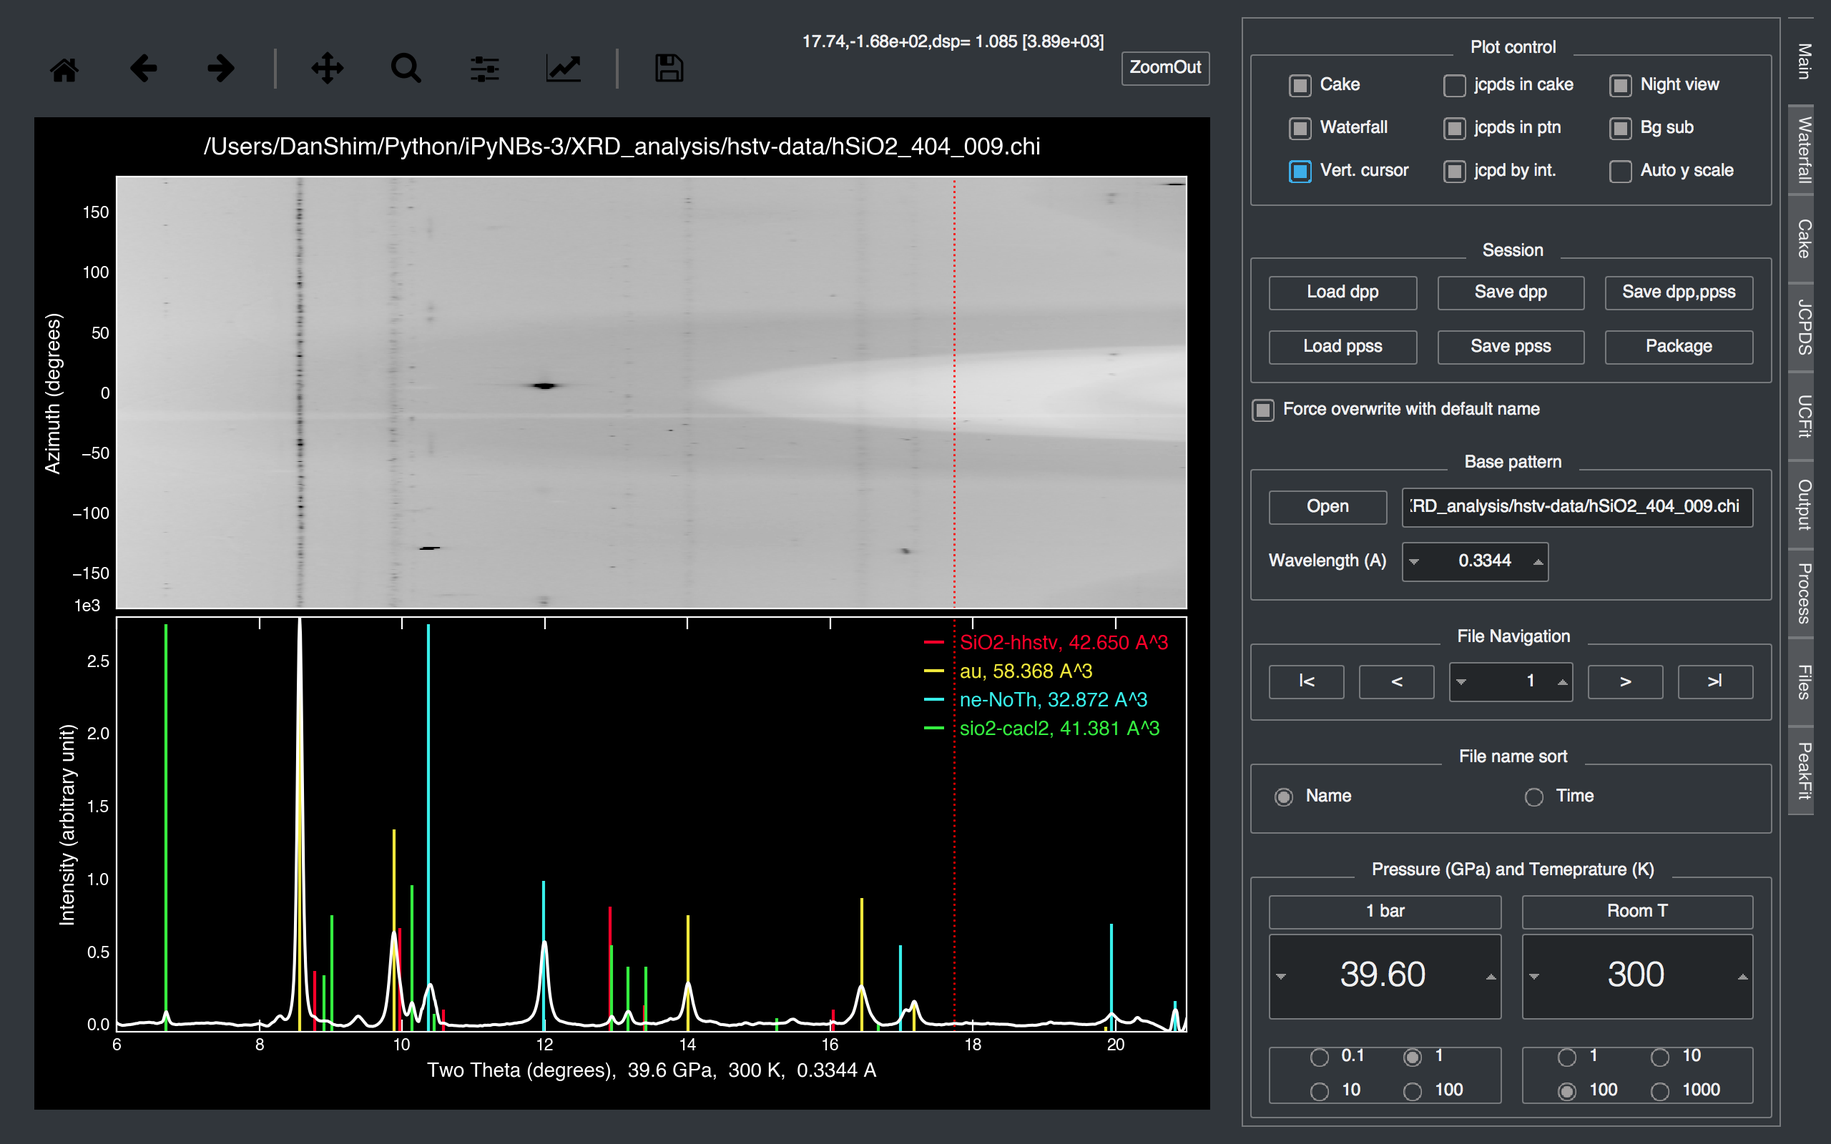
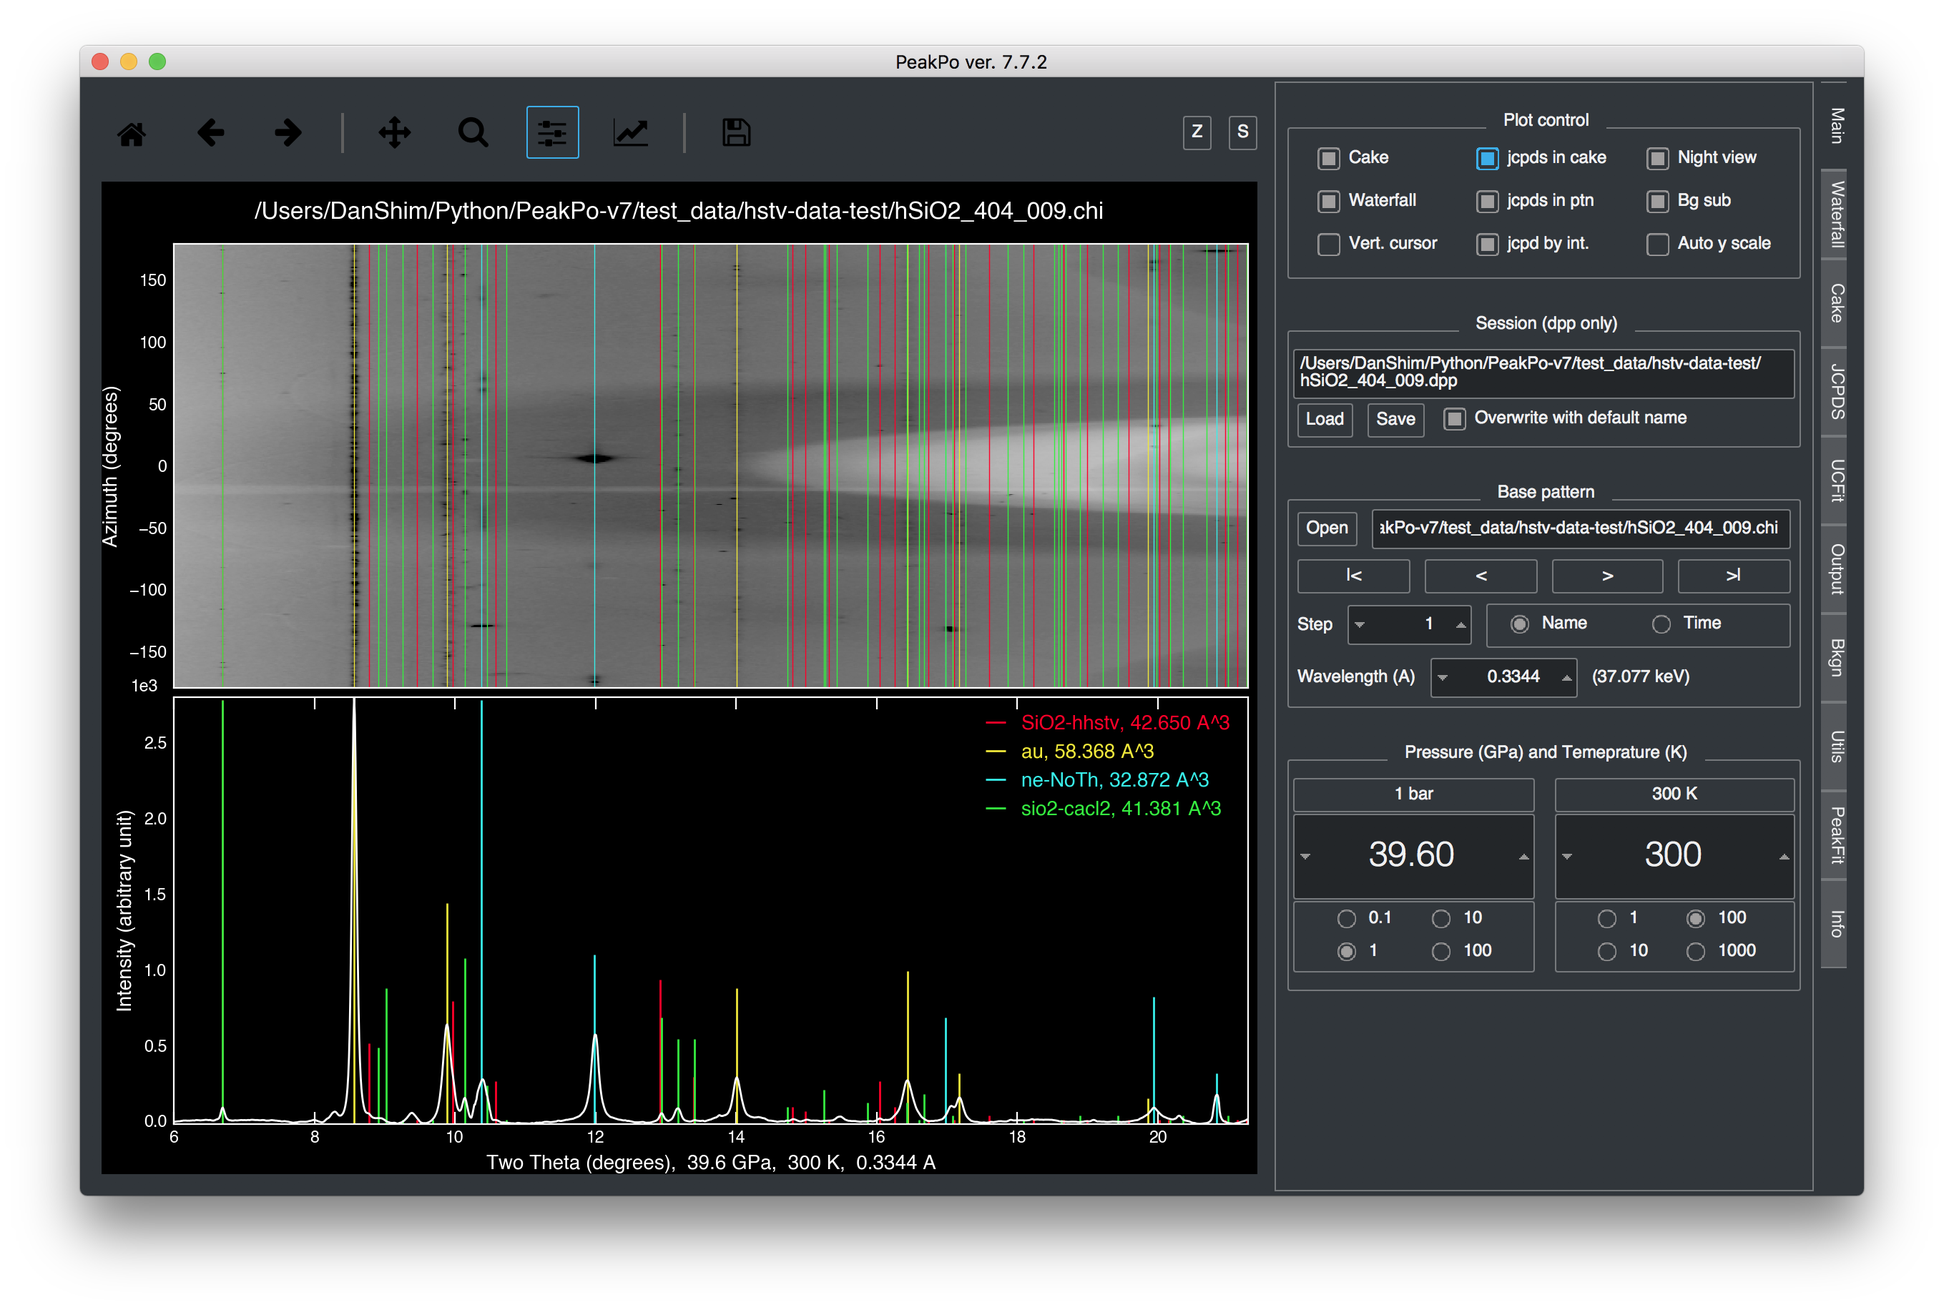
updated screenshots

diff --git a/peakpo/view/qtd.py b/peakpo/view/qtd.py
@@ -1673,18 +1673,6 @@ class Ui_MainWindow(object):
         self.groupBox_10.setObjectName("groupBox_10")
         self.gridLayout_6 = QtWidgets.QGridLayout(self.groupBox_10)
         self.gridLayout_6.setObjectName("gridLayout_6")
-        self.pushButton_DelTempCHI = QtWidgets.QPushButton(self.groupBox_10)
-        self.pushButton_DelTempCHI.setObjectName("pushButton_DelTempCHI")
-        self.gridLayout_6.addWidget(self.pushButton_DelTempCHI, 0, 0, 1, 1)
-        self.checkBox_UseTempBGSub = QtWidgets.QCheckBox(self.groupBox_10)
-        sizePolicy = QtWidgets.QSizePolicy(QtWidgets.QSizePolicy.Fixed, QtWidgets.QSizePolicy.Fixed)
-        sizePolicy.setHorizontalStretch(0)
-        sizePolicy.setVerticalStretch(0)
-        sizePolicy.setHeightForWidth(self.checkBox_UseTempBGSub.sizePolicy().hasHeightForWidth())
-        self.checkBox_UseTempBGSub.setSizePolicy(sizePolicy)
-        self.checkBox_UseTempBGSub.setChecked(True)
-        self.checkBox_UseTempBGSub.setObjectName("checkBox_UseTempBGSub")
-        self.gridLayout_6.addWidget(self.checkBox_UseTempBGSub, 0, 1, 1, 1)
         self.pushButton_DelTempCake = QtWidgets.QPushButton(self.groupBox_10)
         self.pushButton_DelTempCake.setObjectName("pushButton_DelTempCake")
         self.gridLayout_6.addWidget(self.pushButton_DelTempCake, 1, 0, 1, 1)
@@ -1697,6 +1685,18 @@ class Ui_MainWindow(object):
         self.checkBox_UseTempCake.setChecked(True)
         self.checkBox_UseTempCake.setObjectName("checkBox_UseTempCake")
         self.gridLayout_6.addWidget(self.checkBox_UseTempCake, 1, 1, 1, 1)
+        self.pushButton_DelTempCHI = QtWidgets.QPushButton(self.groupBox_10)
+        self.pushButton_DelTempCHI.setObjectName("pushButton_DelTempCHI")
+        self.gridLayout_6.addWidget(self.pushButton_DelTempCHI, 0, 0, 1, 1)
+        self.checkBox_UseTempBGSub = QtWidgets.QCheckBox(self.groupBox_10)
+        sizePolicy = QtWidgets.QSizePolicy(QtWidgets.QSizePolicy.Fixed, QtWidgets.QSizePolicy.Fixed)
+        sizePolicy.setHorizontalStretch(0)
+        sizePolicy.setVerticalStretch(0)
+        sizePolicy.setHeightForWidth(self.checkBox_UseTempBGSub.sizePolicy().hasHeightForWidth())
+        self.checkBox_UseTempBGSub.setSizePolicy(sizePolicy)
+        self.checkBox_UseTempBGSub.setChecked(True)
+        self.checkBox_UseTempBGSub.setObjectName("checkBox_UseTempBGSub")
+        self.gridLayout_6.addWidget(self.checkBox_UseTempBGSub, 0, 1, 1, 1)
         self.verticalLayout_7.addWidget(self.groupBox_10)
         self.groupBox_21 = QtWidgets.QGroupBox(self.tab_Process)
         self.groupBox_21.setFlat(True)
@@ -1709,13 +1709,7 @@ class Ui_MainWindow(object):
         self.pushButton_fromPkFt = QtWidgets.QPushButton(self.groupBox_21)
         self.pushButton_fromPkFt.setObjectName("pushButton_fromPkFt")
         self.horizontalLayout.addWidget(self.pushButton_fromPkFt)
-        self.verticalLayout_7.addWidget(self.groupBox_21)
-        self.groupBox_7 = QtWidgets.QGroupBox(self.tab_Process)
-        self.groupBox_7.setFlat(True)
-        self.groupBox_7.setObjectName("groupBox_7")
-        self.verticalLayout_6 = QtWidgets.QVBoxLayout(self.groupBox_7)
-        self.verticalLayout_6.setObjectName("verticalLayout_6")
-        self.pushButton_SaveBgSubCHI = QtWidgets.QPushButton(self.groupBox_7)
+        self.pushButton_SaveBgSubCHI = QtWidgets.QPushButton(self.groupBox_21)
         sizePolicy = QtWidgets.QSizePolicy(
             QtWidgets.QSizePolicy.Preferred, QtWidgets.QSizePolicy.Fixed)
         sizePolicy.setHorizontalStretch(0)
@@ -1723,22 +1717,31 @@ class Ui_MainWindow(object):
         sizePolicy.setHeightForWidth(self.pushButton_SaveBgSubCHI.sizePolicy().hasHeightForWidth())
         self.pushButton_SaveBgSubCHI.setSizePolicy(sizePolicy)
         self.pushButton_SaveBgSubCHI.setObjectName("pushButton_SaveBgSubCHI")
-        self.verticalLayout_6.addWidget(self.pushButton_SaveBgSubCHI)
-        self.verticalLayout_7.addWidget(self.groupBox_7)
+        self.horizontalLayout.addWidget(self.pushButton_SaveBgSubCHI)
+        self.verticalLayout_7.addWidget(self.groupBox_21)
         self.groupBox_12 = QtWidgets.QGroupBox(self.tab_Process)
         self.groupBox_12.setFlat(True)
         self.groupBox_12.setObjectName("groupBox_12")
         self.gridLayout = QtWidgets.QGridLayout(self.groupBox_12)
         self.gridLayout.setObjectName("gridLayout")
         self.pushButton_LoadPPSS = QtWidgets.QPushButton(self.groupBox_12)
+        sizePolicy = QtWidgets.QSizePolicy(
+            QtWidgets.QSizePolicy.Minimum, QtWidgets.QSizePolicy.Fixed)
+        sizePolicy.setHorizontalStretch(0)
+        sizePolicy.setVerticalStretch(0)
+        sizePolicy.setHeightForWidth(self.pushButton_LoadPPSS.sizePolicy().hasHeightForWidth())
+        self.pushButton_LoadPPSS.setSizePolicy(sizePolicy)
         self.pushButton_LoadPPSS.setObjectName("pushButton_LoadPPSS")
         self.gridLayout.addWidget(self.pushButton_LoadPPSS, 0, 0, 1, 1)
         self.pushButton_SavePPSS = QtWidgets.QPushButton(self.groupBox_12)
+        sizePolicy = QtWidgets.QSizePolicy(
+            QtWidgets.QSizePolicy.Minimum, QtWidgets.QSizePolicy.Fixed)
+        sizePolicy.setHorizontalStretch(0)
+        sizePolicy.setVerticalStretch(0)
+        sizePolicy.setHeightForWidth(self.pushButton_SavePPSS.sizePolicy().hasHeightForWidth())
+        self.pushButton_SavePPSS.setSizePolicy(sizePolicy)
         self.pushButton_SavePPSS.setObjectName("pushButton_SavePPSS")
         self.gridLayout.addWidget(self.pushButton_SavePPSS, 0, 1, 1, 1)
-        self.pushButton_SaveDPPandPPSS = QtWidgets.QPushButton(self.groupBox_12)
-        self.pushButton_SaveDPPandPPSS.setObjectName("pushButton_SaveDPPandPPSS")
-        self.gridLayout.addWidget(self.pushButton_SaveDPPandPPSS, 1, 0, 1, 1)
         self.pushButton_ZipSession = QtWidgets.QPushButton(self.groupBox_12)
         sizePolicy = QtWidgets.QSizePolicy(
             QtWidgets.QSizePolicy.Minimum, QtWidgets.QSizePolicy.Fixed)
@@ -1747,57 +1750,84 @@ class Ui_MainWindow(object):
         sizePolicy.setHeightForWidth(self.pushButton_ZipSession.sizePolicy().hasHeightForWidth())
         self.pushButton_ZipSession.setSizePolicy(sizePolicy)
         self.pushButton_ZipSession.setObjectName("pushButton_ZipSession")
-        self.gridLayout.addWidget(self.pushButton_ZipSession, 1, 1, 1, 1)
+        self.gridLayout.addWidget(self.pushButton_ZipSession, 1, 0, 1, 1)
+        self.pushButton_SaveDPPandPPSS = QtWidgets.QPushButton(self.groupBox_12)
+        sizePolicy = QtWidgets.QSizePolicy(
+            QtWidgets.QSizePolicy.Minimum, QtWidgets.QSizePolicy.Fixed)
+        sizePolicy.setHorizontalStretch(0)
+        sizePolicy.setVerticalStretch(0)
+        sizePolicy.setHeightForWidth(
+            self.pushButton_SaveDPPandPPSS.sizePolicy().hasHeightForWidth())
+        self.pushButton_SaveDPPandPPSS.setSizePolicy(sizePolicy)
+        self.pushButton_SaveDPPandPPSS.setObjectName("pushButton_SaveDPPandPPSS")
+        self.gridLayout.addWidget(self.pushButton_SaveDPPandPPSS, 1, 1, 1, 1)
         self.verticalLayout_7.addWidget(self.groupBox_12)
         self.groupBox_16 = QtWidgets.QGroupBox(self.tab_Process)
         self.groupBox_16.setFlat(True)
         self.groupBox_16.setObjectName("groupBox_16")
         self.gridLayout_14 = QtWidgets.QGridLayout(self.groupBox_16)
+        self.gridLayout_14.setContentsMargins(-1, 12, -1, 12)
         self.gridLayout_14.setObjectName("gridLayout_14")
-        self.frame_7 = QtWidgets.QFrame(self.groupBox_16)
-        self.frame_7.setFrameShape(QtWidgets.QFrame.NoFrame)
-        self.frame_7.setFrameShadow(QtWidgets.QFrame.Raised)
-        self.frame_7.setLineWidth(0)
-        self.frame_7.setObjectName("frame_7")
-        self.gridLayout_15 = QtWidgets.QGridLayout(self.frame_7)
+        self.groupBox_7 = QtWidgets.QGroupBox(self.groupBox_16)
+        self.groupBox_7.setFlat(True)
+        self.groupBox_7.setObjectName("groupBox_7")
+        self.gridLayout_15 = QtWidgets.QGridLayout(self.groupBox_7)
         self.gridLayout_15.setObjectName("gridLayout_15")
-        self.comboBox_BkgnLineThickness = QtWidgets.QComboBox(self.frame_7)
+        self.label_22 = QtWidgets.QLabel(self.groupBox_7)
+        self.label_22.setObjectName("label_22")
+        self.gridLayout_15.addWidget(self.label_22, 0, 2, 1, 1)
+        self.comboBox_BkgnLineThickness = QtWidgets.QComboBox(self.groupBox_7)
+        self.comboBox_BkgnLineThickness.setLayoutDirection(QtCore.Qt.RightToLeft)
         self.comboBox_BkgnLineThickness.setObjectName("comboBox_BkgnLineThickness")
         self.gridLayout_15.addWidget(self.comboBox_BkgnLineThickness, 1, 1, 1, 1)
-        self.label_25 = QtWidgets.QLabel(self.frame_7)
+        self.label_25 = QtWidgets.QLabel(self.groupBox_7)
         self.label_25.setObjectName("label_25")
         self.gridLayout_15.addWidget(self.label_25, 2, 0, 1, 1)
-        self.label_22 = QtWidgets.QLabel(self.frame_7)
-        self.label_22.setObjectName("label_22")
-        self.gridLayout_15.addWidget(self.label_22, 3, 0, 1, 1)
-        self.comboBox_PtnJCPDSBarThickness = QtWidgets.QComboBox(self.frame_7)
-        self.comboBox_PtnJCPDSBarThickness.setMaxCount(10)
-        self.comboBox_PtnJCPDSBarThickness.setObjectName("comboBox_PtnJCPDSBarThickness")
-        self.gridLayout_15.addWidget(self.comboBox_PtnJCPDSBarThickness, 3, 1, 1, 1)
-        self.label_17 = QtWidgets.QLabel(self.frame_7)
+        self.label_17 = QtWidgets.QLabel(self.groupBox_7)
         self.label_17.setObjectName("label_17")
         self.gridLayout_15.addWidget(self.label_17, 0, 0, 1, 1)
-        self.comboBox_BasePtnLineThickness = QtWidgets.QComboBox(self.frame_7)
+        self.comboBox_BasePtnLineThickness = QtWidgets.QComboBox(self.groupBox_7)
+        self.comboBox_BasePtnLineThickness.setLayoutDirection(QtCore.Qt.RightToLeft)
         self.comboBox_BasePtnLineThickness.setMaxCount(10)
         self.comboBox_BasePtnLineThickness.setObjectName("comboBox_BasePtnLineThickness")
         self.gridLayout_15.addWidget(self.comboBox_BasePtnLineThickness, 0, 1, 1, 1)
-        self.label_23 = QtWidgets.QLabel(self.frame_7)
-        self.label_23.setObjectName("label_23")
-        self.gridLayout_15.addWidget(self.label_23, 4, 0, 1, 1)
-        self.comboBox_CakeJCPDSBarThickness = QtWidgets.QComboBox(self.frame_7)
-        self.comboBox_CakeJCPDSBarThickness.setMaxCount(10)
-        self.comboBox_CakeJCPDSBarThickness.setObjectName("comboBox_CakeJCPDSBarThickness")
-        self.gridLayout_15.addWidget(self.comboBox_CakeJCPDSBarThickness, 4, 1, 1, 1)
-        self.comboBox_WaterfallLineThickness = QtWidgets.QComboBox(self.frame_7)
+        self.comboBox_WaterfallLineThickness = QtWidgets.QComboBox(self.groupBox_7)
+        self.comboBox_WaterfallLineThickness.setLayoutDirection(QtCore.Qt.RightToLeft)
         self.comboBox_WaterfallLineThickness.setObjectName("comboBox_WaterfallLineThickness")
         self.gridLayout_15.addWidget(self.comboBox_WaterfallLineThickness, 2, 1, 1, 1)
-        self.label_24 = QtWidgets.QLabel(self.frame_7)
+        self.label_24 = QtWidgets.QLabel(self.groupBox_7)
         self.label_24.setObjectName("label_24")
         self.gridLayout_15.addWidget(self.label_24, 1, 0, 1, 1)
-        self.gridLayout_14.addWidget(self.frame_7, 0, 0, 1, 1)
+        self.comboBox_PtnJCPDSBarThickness = QtWidgets.QComboBox(self.groupBox_7)
+        self.comboBox_PtnJCPDSBarThickness.setLayoutDirection(QtCore.Qt.RightToLeft)
+        self.comboBox_PtnJCPDSBarThickness.setMaxCount(10)
+        self.comboBox_PtnJCPDSBarThickness.setObjectName("comboBox_PtnJCPDSBarThickness")
+        self.gridLayout_15.addWidget(self.comboBox_PtnJCPDSBarThickness, 0, 3, 1, 1)
+        self.label_23 = QtWidgets.QLabel(self.groupBox_7)
+        self.label_23.setObjectName("label_23")
+        self.gridLayout_15.addWidget(self.label_23, 1, 2, 1, 1)
+        self.comboBox_CakeJCPDSBarThickness = QtWidgets.QComboBox(self.groupBox_7)
+        self.comboBox_CakeJCPDSBarThickness.setLayoutDirection(QtCore.Qt.RightToLeft)
+        self.comboBox_CakeJCPDSBarThickness.setMaxCount(10)
+        self.comboBox_CakeJCPDSBarThickness.setObjectName("comboBox_CakeJCPDSBarThickness")
+        self.gridLayout_15.addWidget(self.comboBox_CakeJCPDSBarThickness, 1, 3, 1, 1)
+        self.label_26 = QtWidgets.QLabel(self.groupBox_7)
+        sizePolicy = QtWidgets.QSizePolicy(
+            QtWidgets.QSizePolicy.Fixed, QtWidgets.QSizePolicy.Preferred)
+        sizePolicy.setHorizontalStretch(0)
+        sizePolicy.setVerticalStretch(0)
+        sizePolicy.setHeightForWidth(self.label_26.sizePolicy().hasHeightForWidth())
+        self.label_26.setSizePolicy(sizePolicy)
+        self.label_26.setObjectName("label_26")
+        self.gridLayout_15.addWidget(self.label_26, 2, 2, 1, 1)
+        self.comboBox_VertCursorThickness = QtWidgets.QComboBox(self.groupBox_7)
+        self.comboBox_VertCursorThickness.setLayoutDirection(QtCore.Qt.RightToLeft)
+        self.comboBox_VertCursorThickness.setObjectName("comboBox_VertCursorThickness")
+        self.gridLayout_15.addWidget(self.comboBox_VertCursorThickness, 2, 3, 1, 1)
+        self.gridLayout_14.addWidget(self.groupBox_7, 1, 0, 1, 1)
         self.checkBox_ShortPlotTitle = QtWidgets.QCheckBox(self.groupBox_16)
         self.checkBox_ShortPlotTitle.setObjectName("checkBox_ShortPlotTitle")
-        self.gridLayout_14.addWidget(self.checkBox_ShortPlotTitle, 3, 0, 1, 1)
+        self.gridLayout_14.addWidget(self.checkBox_ShortPlotTitle, 0, 0, 1, 1)
         self.verticalLayout_7.addWidget(self.groupBox_16)
         spacerItem3 = QtWidgets.QSpacerItem(
             20, 40, QtWidgets.QSizePolicy.Minimum, QtWidgets.QSizePolicy.Expanding)
@@ -2211,26 +2241,27 @@ class Ui_MainWindow(object):
         self.label_3.setText(_translate("MainWindow", "Shift X"))
         self.label_7.setText(_translate("MainWindow", "Shift Y (%)"))
         self.groupBox_10.setTitle(_translate("MainWindow", "Temporary files"))
-        self.pushButton_DelTempCHI.setText(_translate("MainWindow", "Del temp chi files"))
+        self.pushButton_DelTempCake.setText(_translate("MainWindow", "Del temp cake"))
+        self.checkBox_UseTempCake.setText(_translate("MainWindow", "Use for cake"))
+        self.pushButton_DelTempCHI.setText(_translate("MainWindow", "Del temp chi"))
         self.checkBox_UseTempBGSub.setText(_translate("MainWindow", "Use for bgsub"))
-        self.pushButton_DelTempCake.setText(_translate("MainWindow", "Del temp cake files"))
-        self.checkBox_UseTempCake.setText(_translate("MainWindow", "Use for cake image"))
-        self.groupBox_21.setTitle(_translate("MainWindow", "Clipboard"))
+        self.groupBox_21.setTitle(_translate("MainWindow", "Tools"))
         self.pushButton_toPkFt.setText(_translate("MainWindow", "to PkFt"))
         self.pushButton_fromPkFt.setText(_translate("MainWindow", "from PkFt"))
-        self.groupBox_7.setTitle(_translate("MainWindow", "Export"))
         self.pushButton_SaveBgSubCHI.setText(_translate("MainWindow", "Save BgSub.CHI"))
         self.groupBox_12.setTitle(_translate("MainWindow", "Session (backward compatibility)"))
         self.pushButton_LoadPPSS.setText(_translate("MainWindow", "Load ppss"))
         self.pushButton_SavePPSS.setText(_translate("MainWindow", "Save ppss"))
-        self.pushButton_SaveDPPandPPSS.setText(_translate("MainWindow", "Save dpp,ppss"))
         self.pushButton_ZipSession.setText(_translate("MainWindow", "Package"))
+        self.pushButton_SaveDPPandPPSS.setText(_translate("MainWindow", "Save dpp,ppss"))
         self.groupBox_16.setTitle(_translate("MainWindow", "Plot setup"))
-        self.label_25.setText(_translate("MainWindow", "Waterfall line thickness"))
-        self.label_22.setText(_translate("MainWindow", "JCPDS in ptn thickness"))
-        self.label_17.setText(_translate("MainWindow", "Pattern line thickness"))
-        self.label_23.setText(_translate("MainWindow", "JCPDS in cake thickness"))
-        self.label_24.setText(_translate("MainWindow", "Background line thickness"))
+        self.groupBox_7.setTitle(_translate("MainWindow", "Line thickness"))
+        self.label_22.setText(_translate("MainWindow", "JCPDS, ptn"))
+        self.label_25.setText(_translate("MainWindow", "Waterfall"))
+        self.label_17.setText(_translate("MainWindow", "Pattern"))
+        self.label_24.setText(_translate("MainWindow", "Bkgn"))
+        self.label_23.setText(_translate("MainWindow", "JCPDS, cake"))
+        self.label_26.setText(_translate("MainWindow", "Vert. cursor"))
         self.checkBox_ShortPlotTitle.setText(_translate(
             "MainWindow", "Short title (file name only)"))
         self.tabWidget.setTabText(self.tabWidget.indexOf(

diff --git a/peakpo/view/mainwidget.py b/peakpo/view/mainwidget.py
@@ -45,17 +45,20 @@ class MainWindow(QtWidgets.QMainWindow, Ui_MainWindow):
         self.doubleSpinBox_Background_ROI_min.setStyle(SpinBoxFixStyle())
         self.doubleSpinBox_SetWavelength.setKeyboardTracking(False)
         self.doubleSpinBox_SetWavelength.setStyle(SpinBoxFixStyle())
-        linethicknesses = ['0', '0.1', '0.5', '0.75', '1', '1.5', '2', '3', '4', '5']
+        linethicknesses = ['0', '0.1', '0.5', '0.75', '1', '1.5', '2', '3',
+                           '4', '5']
         self.comboBox_BasePtnLineThickness.addItems(linethicknesses)
         self.comboBox_PtnJCPDSBarThickness.addItems(linethicknesses)
         self.comboBox_CakeJCPDSBarThickness.addItems(linethicknesses)
         self.comboBox_BkgnLineThickness.addItems(linethicknesses)
         self.comboBox_WaterfallLineThickness.addItems(linethicknesses)
+        self.comboBox_VertCursorThickness.addItems(linethicknesses)
         self.comboBox_BasePtnLineThickness.setCurrentText('1')
         self.comboBox_PtnJCPDSBarThickness.setCurrentText('1')
         self.comboBox_CakeJCPDSBarThickness.setCurrentText('0.5')
         self.comboBox_BkgnLineThickness.setCurrentText('0.5')
         self.comboBox_WaterfallLineThickness.setCurrentText('0.5')
+        self.comboBox_VertCursorThickness.setCurrentText('1')
         # navigation toolbar modification
         self.ntb_WholePtn = QtWidgets.QPushButton()
         self.ntb_WholePtn.setText("Z")

diff --git a/peakpo/view/mplwidget.py b/peakpo/view/mplwidget.py
@@ -24,6 +24,7 @@ class FigureCanvas(FigureCanvasQTAgg):
         """
         # if the canvas does not have a renderer, then give up and wait for
         # FigureCanvasAgg.draw(self) to be called
+        thickness = 5
         if not hasattr(self, 'renderer'):
             return
 
@@ -60,7 +61,7 @@ class FigureCanvas(FigureCanvasQTAgg):
 
             # draw the zoom rectangle to the QPainter
             if self._drawRect is not None:
-                pen = QtGui.QPen(QtCore.Qt.red, 5 / self._dpi_ratio,
+                pen = QtGui.QPen(QtCore.Qt.red, thickness / self._dpi_ratio,
                                  QtCore.Qt.DotLine)
                 p.setPen(pen)
                 x, y, w, h = self._drawRect
@@ -103,7 +104,7 @@ class FigureCanvas(FigureCanvasQTAgg):
 
             # draw the zoom rectangle to the QPainter
             if self._drawRect is not None:
-                pen = QtGui.QPen(QtCore.Qt.black, 1 / self._dpi_ratio,
+                pen = QtGui.QPen(QtCore.Qt.black, thickness / self._dpi_ratio,
                                  QtCore.Qt.DotLine)
                 p.setPen(pen)
                 x, y, w, h = self._drawRect

diff --git a/peakpo/control/mplcontroller.py b/peakpo/control/mplcontroller.py
@@ -131,7 +131,10 @@ class MplController(object):
             self.widget.cursor = MultiCursor(
                 self.widget.mpl.canvas,
                 (self.widget.mpl.canvas.ax_pattern,
-                 self.widget.mpl.canvas.ax_cake), color='r', lw=1,
+                 self.widget.mpl.canvas.ax_cake), color='r',
+                lw=float(
+                    self.widget.comboBox_VertCursorThickness.
+                    currentText()),
                 ls='--', useblit=False)  # useblit not supported for pyqt5 yet
             """
             self.widget.cursor_pattern = Cursor(
